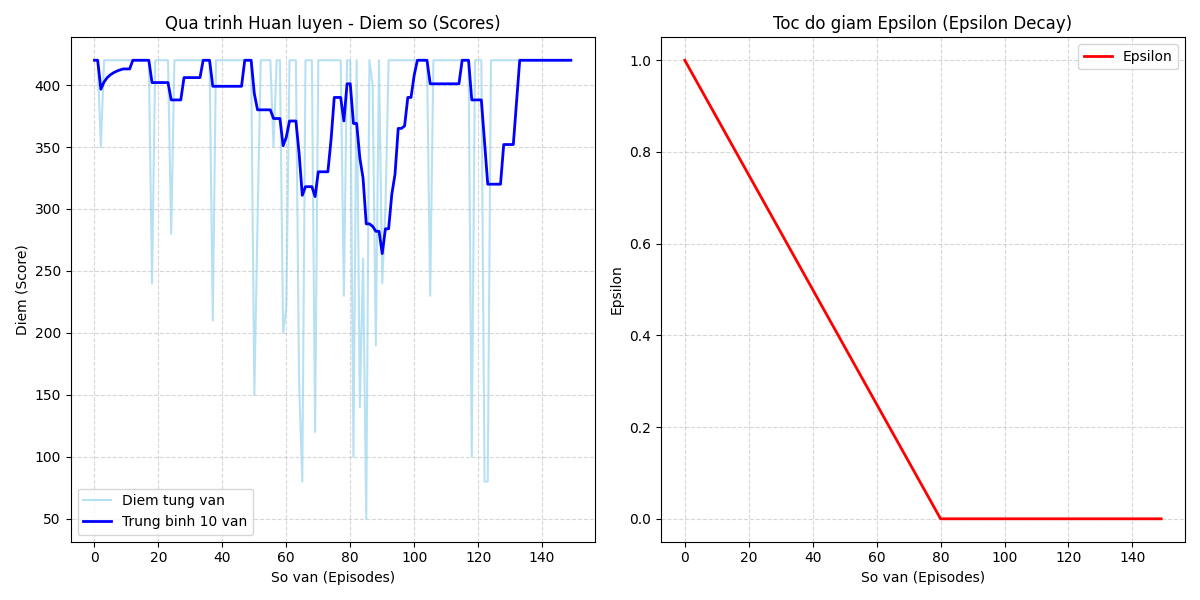
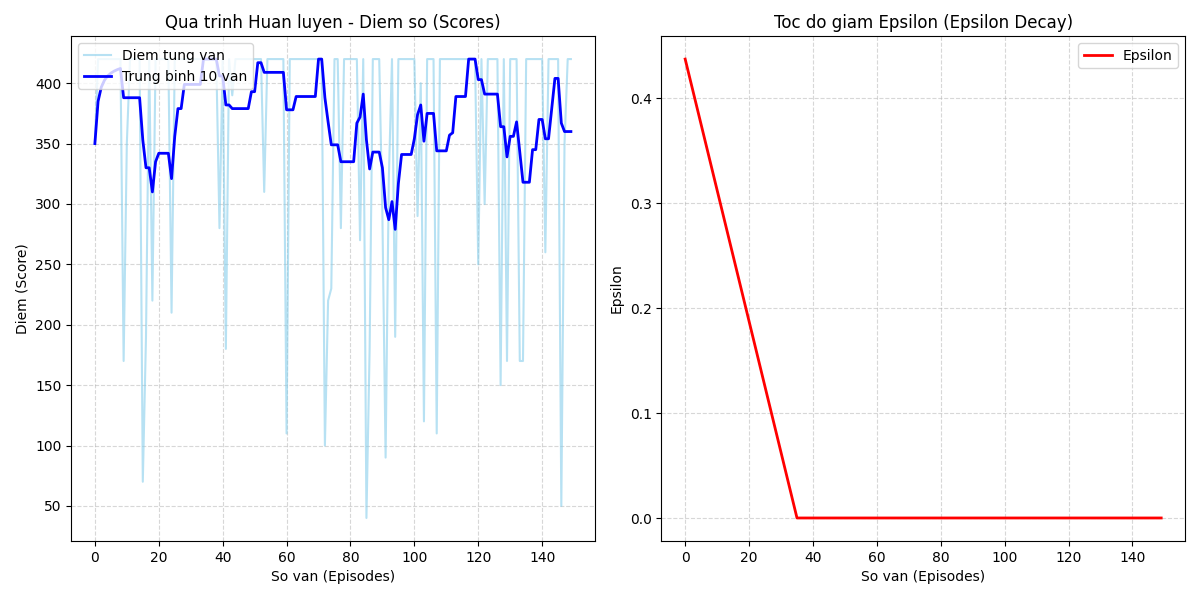
update new model

diff --git a/agent/agent.py b/agent/agent.py
@@ -6,10 +6,11 @@ from collections import deque
 
 # Import các hằng số và hàm xử lý Action Masking từ Người số 3 gửi
 from utils.state_utils import (
-    get_valid_actions, 
-    extract_state, 
-    state_to_torch, 
-    batch_states_to_torch
+    get_valid_actions,
+    extract_state,
+    state_to_torch,
+    batch_states_to_torch,
+    qvalues_to_action,
 )
 
 # Cấu hình hằng số cho Agent
@@ -145,30 +146,24 @@ class PikachuAgent:
 
     def get_action(self, board_state, env_bfs_fn):
         """
-        Cơ chế Epsilon-Greedy KHÔNG dùng Action Masking (AI tự tìm đường và học luật chơi).
+        Cơ chế Epsilon-Greedy CÓ Action Masking: chỉ xét những cặp ô thực sự
+        nối được theo BFS thật của game (luật chơi được lập trình cứng), AI chỉ
+        cần học cách chọn cặp nào tốt nhất trong số các nước đi hợp lệ đó.
         - board_state: Ma trận game hiện tại
         - env_bfs_fn: Hàm check bước đi BFS của game
         """
         # Giảm dần epsilon qua từng ván game để AI bớt đi bừa và thông minh dần lên.
         self.epsilon = max(0.01, 80 - self.n_games) / 80
 
-        H = len(board_state)
-        W = len(board_state[0])
-        inner_positions = [
-            (r, c) for r in range(1, H - 1) for c in range(1, W - 1) if board_state[r][c] != 0
-        ]
+        valid_actions = get_valid_actions(board_state, env_bfs_fn)
+        if not valid_actions:
+            return None
 
-        # Exploration: thử một cặp ngẫu nhiên, dù có thể là sai, để học từ sai lầm.
+        # Exploration: thử một cặp hợp lệ ngẫu nhiên.
         if random.random() < self.epsilon:
-            if not inner_positions:
-                return None
-            r1, c1 = random.choice(inner_positions)
-            r2, c2 = random.choice(inner_positions)
-            while (r1, c1) == (r2, c2):
-                r2, c2 = random.choice(inner_positions)
-            return (r1, c1, r2, c2)
+            return random.choice(valid_actions)
 
-        # Exploitation: chọn action mà model tin là tốt nhất.
+        # Exploitation: chọn cặp hợp lệ mà model tin là tốt nhất.
         s_dict = extract_state(board_state)
         s_tensor = state_to_torch(s_dict, device=self.device)["board_onehot"].unsqueeze(0)
 
@@ -178,33 +173,11 @@ class PikachuAgent:
         self.model.train()
 
         q_flat = q_values[0].reshape(-1)
-        best_action = None
-        best_score = -float('inf')
+        H, W = len(board_state), len(board_state[0])
+        best_action = qvalues_to_action(q_flat, valid_actions, board_width=W, board_height=H)
 
-        for r1, c1 in inner_positions:
-            for r2, c2 in inner_positions:
-                if (r1, c1) == (r2, c2):
-                    continue
-                idx1 = r1 * W + c1
-                idx2 = r2 * W + c2
-                action_score = float(q_flat[idx1].item()) + float(q_flat[idx2].item())
-                if action_score > best_score:
-                    best_score = action_score
-                    best_action = (r1, c1, r2, c2)
+        return best_action if best_action is not None else valid_actions[0]
 
-        if best_action is not None:
-            return best_action
-
-        if inner_positions:
-            r1, c1 = inner_positions[0]
-            r2, c2 = inner_positions[1] if len(inner_positions) > 1 else inner_positions[0]
-            return (r1, c1, r2, c2)
-
-        return None
-
-# ==============================================================================
-# ĐOẠN MÃ GIẢ LẬP ĐỂ BẠN TEST FILE AGENT MỘT MÌNH (KHÔNG CẦN NGƯỜI 2 VÀ NGƯỜI 4)
-# ==============================================================================
 if __name__ == '__main__':
     print("--- KHỞI TẠO TEST MÔI TRƯỜNG AGENT OFFLINE ---")
     
@@ -237,4 +210,3 @@ if __name__ == '__main__':
     
     print("Thử nghiệm hàm train_long_memory...")
     agent.train_long_memory()
-    print("--- AGENT ĐÃ SẴN SÀNG CHỜ RÁP NỐI VỚI CẢ NHÓM! ---")

diff --git a/Pikachu-Matching-Game/pikachu.py b/Pikachu-Matching-Game/pikachu.py
@@ -1076,20 +1076,17 @@ def runGame():
                     s_tensor = state_to_torch(s_dict, device="cpu")["board_onehot"].unsqueeze(0)
                     with torch.no_grad():
                         q_values = ai_model(s_tensor)
-                    
-                    # Gán Q-values của các ô viền ngoài và các ô trống về âm vô cực để model không chọn trúng
-                    q_masked = q_values[0].clone()
-                    for idx in range(BOARDWIDTH * BOARDHEIGHT):
-                        r, c = divmod(idx, BOARDWIDTH)
-                        if r == 0 or r == BOARDHEIGHT - 1 or c == 0 or c == BOARDWIDTH - 1 or mainBoard[r][c] == 0:
-                            q_masked[idx] = -float('inf')
-                    
-                    # Chọn 2 ô có Q-value cao nhất từ các ô hợp lệ bên trong
-                    top2_indices = torch.topk(q_masked, 2).indices.cpu().numpy()
-                    idx1, idx2 = top2_indices[0], top2_indices[1]
-                    r1, c1 = divmod(idx1, BOARDWIDTH)
-                    r2, c2 = divmod(idx2, BOARDWIDTH)
-                    
+
+                    # Chỉ chọn trong số các cặp thực sự nối được (BFS hợp lệ),
+                    # tránh chọn 2 ô có Q-value cao nhất nhưng không ăn được nhau.
+                    q_flat = q_values[0].reshape(-1)
+                    best_action = qvalues_to_action(
+                        q_flat, valid_actions, board_width=BOARDWIDTH, board_height=BOARDHEIGHT
+                    )
+                    if best_action is None:
+                        best_action = valid_actions[0]
+                    r1, c1, r2, c2 = best_action
+
                     ai_selected_pair = [(c1, r1), (c2, r2)]
                     ai_click_step = 0
                     ai_click_timer = time.time()
@@ -1246,9 +1243,9 @@ def drawBoard(board):
     cols = BOARDWIDTH  - 2
     rows = BOARDHEIGHT - 2
 
-    # --- Bước 1: Vẽ nền tối nhẹ ---
+    # --- Bước 1: Vẽ nền tối để che logo nền, tránh lem vào ô trống ---
     bg_surf = pygame.Surface((inner_w, inner_h), pygame.SRCALPHA)
-    bg_surf.fill((10, 15, 40, 55))
+    bg_surf.fill((10, 15, 40, 235))
     DISPLAYSURF.blit(bg_surf, (inner_left, inner_top))
 
     # --- Bước 2: Vẽ icon pokemon lên trên nền ---

diff --git a/train.py b/train.py
@@ -2,7 +2,9 @@ import sys
 import os
 import yaml
 import torch
+import pygame  # Import pygame de xu ly su kien
 import numpy as np
+
 import matplotlib.pyplot as plt
 from model.model import PokemonModel
 from agent.agent import PikachuAgent
@@ -73,10 +75,10 @@ def train():
     model = PokemonModel(config, output_size).to(device)
     
     # Nap checkpoint de train tiep tu file cu neu ton tai
-    model_path = os.path.join(ROOT_DIR, "weights", "best_model_3.pt")
+    model_path = os.path.join(ROOT_DIR, "weights", "best_model.pt")
     initial_n_games = 0
     if os.path.exists(model_path):
-        print(f"--> Phat hien checkpoint cu (Model 3) tai: {model_path}")
+        print(f"--> Phat hien checkpoint cu tai: {model_path}")
         print("Dang nap trong so cu de tiep tuc huan luyen...")
         model.load(model_path, map_location=device)
         # Tiep tuc epsilon da giam
@@ -102,7 +104,6 @@ def train():
     plt.ion()
     fig, (ax1, ax2) = plt.subplots(1, 2, figsize=(12, 6))
     
-    import pygame  # Import pygame de xu ly su kien
     
     for episode in range(1, EPISODES + 1):
         state = env.reset()
@@ -158,7 +159,7 @@ def train():
             best_score = env.score
             weights_dir = os.path.join(ROOT_DIR, "weights")
             os.makedirs(weights_dir, exist_ok=True)
-            model.save(os.path.join(weights_dir, "best_model_3.pt"))
+            model.save(os.path.join(weights_dir, "best_model.pt"))
             print(f"--> Da luu best model moi tai weights/best_model.pt voi Score: {best_score}")
             
     # Tat che do ve truc tiep, luu do thi cuoi cung